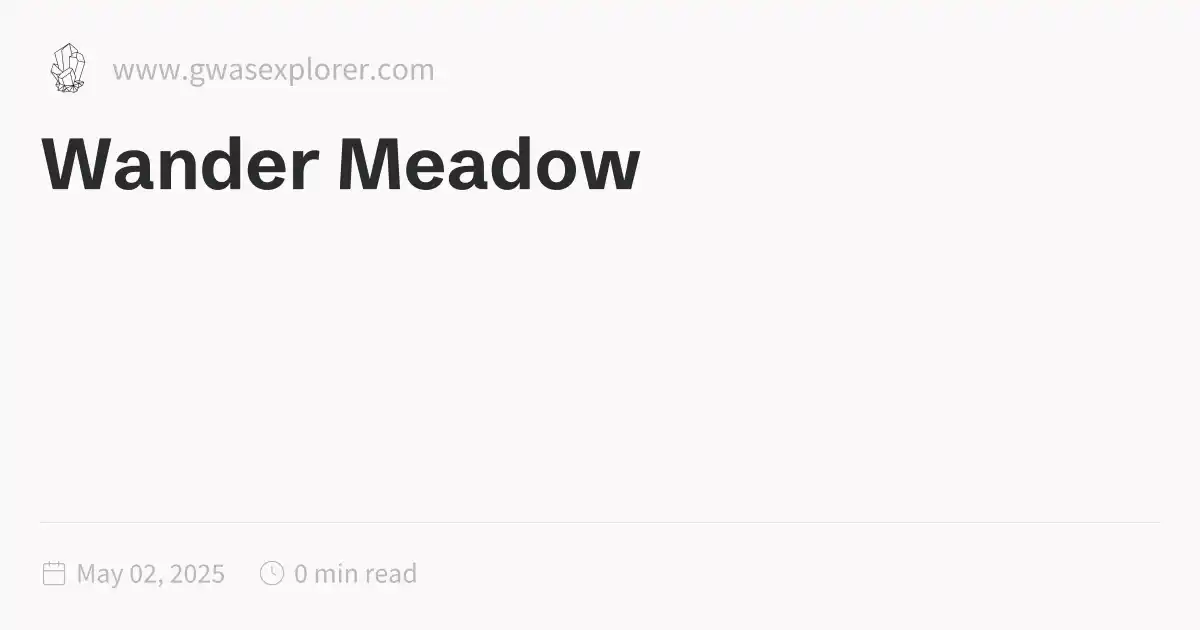
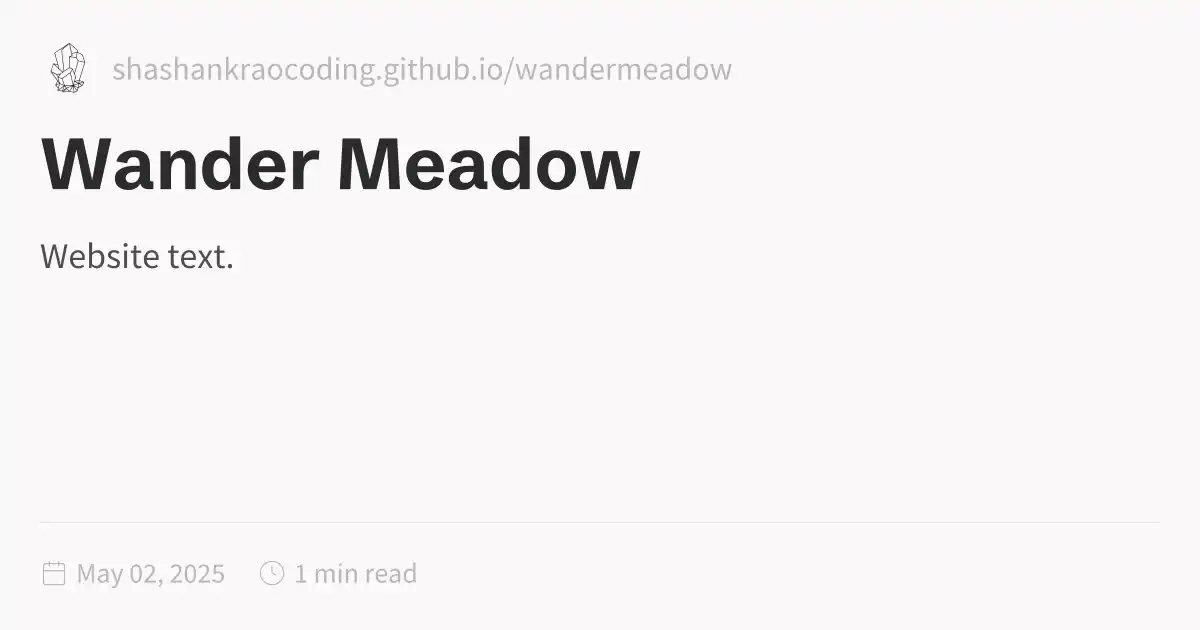
Update public folder - 2025-05-02\_1422

Changed region(s): [[0.0925, 0.0905, 0.6167, 0.1508], [0.0308, 0.3921, 0.185, 0.4222], [0.2467, 0.9048, 0.2775, 0.9349]]

diff --git a/tags/index.html b/tags/index.html
@@ -1,5 +1,5 @@
 <!DOCTYPE html>
-<html lang="en"><head><title>Tag Index</title><meta charset="utf-8"/><link rel="preconnect" href="https://fonts.googleapis.com"/><link rel="preconnect" href="https://fonts.gstatic.com"/><link rel="stylesheet" href="https://fonts.googleapis.com/css2?family=Schibsted Grotesk:wght@400;700&amp;family=Source Sans Pro:ital,wght@0,400;0,600;1,400;1,600&amp;family=IBM Plex Mono:wght@400;600&amp;display=swap"/><link rel="preconnect" href="https://cdnjs.cloudflare.com" crossorigin="anonymous"/><meta name="viewport" content="width=device-width, initial-scale=1.0"/><meta name="og:site_name" content="GWAS Explorer"/><meta property="og:title" content="Tag Index"/><meta property="og:type" content="website"/><meta name="twitter:card" content="summary_large_image"/><meta name="twitter:title" content="Tag Index"/><meta name="twitter:description" content="No description provided"/><meta property="og:description" content="No description provided"/><meta property="og:image:alt" content="No description provided"/><meta property="twitter:domain" content="www.gwasexplorer.com"/><meta property="og:url" content="https://www.gwasexplorer.com/tags/index"/><meta property="twitter:url" content="https://www.gwasexplorer.com/tags/index"/><link rel="icon" href="../static/icon.png"/><meta name="description" content="No description provided"/><meta name="generator" content="Quartz"/><link href="../index.css" rel="stylesheet" type="text/css" spa-preserve/><style>.expand-button {
+<html lang="en"><head><title>Tag Index</title><meta charset="utf-8"/><link rel="preconnect" href="https://fonts.googleapis.com"/><link rel="preconnect" href="https://fonts.gstatic.com"/><link rel="stylesheet" href="https://fonts.googleapis.com/css2?family=Schibsted Grotesk:wght@400;700&amp;family=Source Sans Pro:ital,wght@0,400;0,600;1,400;1,600&amp;family=IBM Plex Mono:wght@400;600&amp;display=swap"/><link rel="preconnect" href="https://cdnjs.cloudflare.com" crossorigin="anonymous"/><meta name="viewport" content="width=device-width, initial-scale=1.0"/><meta name="og:site_name" content="Wander Meadow"/><meta property="og:title" content="Tag Index"/><meta property="og:type" content="website"/><meta name="twitter:card" content="summary_large_image"/><meta name="twitter:title" content="Tag Index"/><meta name="twitter:description" content="No description provided"/><meta property="og:description" content="No description provided"/><meta property="og:image:alt" content="No description provided"/><meta property="twitter:domain" content="shashankraocoding.github.io/wandermeadow"/><meta property="og:url" content="https://shashankraocoding.github.io/wandermeadow/tags/index"/><meta property="twitter:url" content="https://shashankraocoding.github.io/wandermeadow/tags/index"/><link rel="icon" href="../static/icon.png"/><meta name="description" content="No description provided"/><meta name="generator" content="Quartz"/><link href="../index.css" rel="stylesheet" type="text/css" spa-preserve/><style>.expand-button {
   position: absolute;
   display: flex;
   float: right;
@@ -116,6 +116,6 @@ pre:hover > .expand-button {
   padding: 0 12px;
   font-size: 14px;
 }
[2 lines of base64/hex data omitted]
 </script><script type="module">function f(i,e){if(!i)return;function r(o){o.target===this&&(o.preventDefault(),o.stopPropagation(),e())}function t(o){o.key.startsWith("Esc")&&(o.preventDefault(),e())}i?.addEventListener("click",r),window.addCleanup(()=>i?.removeEventListener("click",r)),document.addEventListener("keydown",t),window.addCleanup(()=>document.removeEventListener("keydown",t))}function y(i){for(;i.firstChild;)i.removeChild(i.firstChild)}var h=class{constructor(e,r){this.container=e;this.content=r;this.setupEventListeners(),this.setupNavigationControls(),this.resetTransform()}isDragging=!1;startPan={x:0,y:0};currentPan={x:0,y:0};scale=1;MIN_SCALE=.5;MAX_SCALE=3;cleanups=[];setupEventListeners(){let e=this.onMouseDown.bind(this),r=this.onMouseMove.bind(this),t=this.onMouseUp.bind(this),o=this.resetTransform.bind(this);this.container.addEventListener("mousedown",e),document.addEventListener("mousemove",r),document.addEventListener("mouseup",t),window.addEventListener("resize",o),this.cleanups.push(()=>this.container.removeEventListener("mousedown",e),()=>document.removeEventListener("mousemove",r),()=>document.removeEventListener("mouseup",t),()=>window.removeEventListener("resize",o))}cleanup(){for(let e of this.cleanups)e()}setupNavigationControls(){let e=document.createElement("div");e.className="mermaid-controls";let r=this.createButton("+",()=>this.zoom(.1)),t=this.createButton("-",()=>this.zoom(-.1)),o=this.createButton("Reset",()=>this.resetTransform());e.appendChild(t),e.appendChild(o),e.appendChild(r),this.container.appendChild(e)}createButton(e,r){let t=document.createElement("button");return t.textContent=e,t.className="mermaid-control-button",t.addEventListener("click",r),window.addCleanup(()=>t.removeEventListener("click",r)),t}onMouseDown(e){e.button===0&&(this.isDragging=!0,this.startPan={x:e.clientX-this.currentPan.x,y:e.clientY-this.currentPan.y},this.container.style.cursor="grabbing")}onMouseMove(e){this.isDragging&&(e.preventDefault(),this.currentPan={x:e.clientX-this.startPan.x,y:e.clientY-this.startPan.y},this.updateTransform())}onMouseUp(){this.isDragging=!1,this.container.style.cursor="grab"}zoom(e){let r=Math.min(Math.max(this.scale+e,this.MIN_SCALE),this.MAX_SCALE),t=this.content.getBoundingClientRect(),o=t.width/2,n=t.height/2,c=r-this.scale;this.currentPan.x-=o*c,this.currentPan.y-=n*c,this.scale=r,this.updateTransform()}updateTransform(){this.content.style.transform=`translate(${this.currentPan.x}px, ${this.currentPan.y}px) scale(${this.scale})`}resetTransform(){this.scale=1;let e=this.content.querySelector("svg");this.currentPan={x:e.getBoundingClientRect().width/2,y:e.getBoundingClientRect().height/2},this.updateTransform()}},C=["--secondary","--tertiary","--gray","--light","--lightgray","--highlight","--dark","--darkgray","--codeFont"],E;document.addEventListener("nav",async()=>{let e=document.querySelector(".center").querySelectorAll("code.mermaid");if(e.length===0)return;E||=await import("https://cdnjs.cloudflare.com/ajax/libs/mermaid/11.4.0/mermaid.esm.min.mjs");let r=E.default,t=new WeakMap;for(let n of e)t.set(n,n.innerText);async function o(){for(let s of e){s.removeAttribute("data-processed");let a=t.get(s);a&&(s.innerHTML=a)}let n=C.reduce((s,a)=>(s[a]=window.getComputedStyle(document.documentElement).getPropertyValue(a),s),{}),c=document.documentElement.getAttribute("saved-theme")==="dark";r.initialize({startOnLoad:!1,securityLevel:"loose",theme:c?"dark":"base",themeVariables:{fontFamily:n["--codeFont"],primaryColor:n["--light"],primaryTextColor:n["--darkgray"],primaryBorderColor:n["--tertiary"],lineColor:n["--darkgray"],secondaryColor:n["--secondary"],tertiaryColor:n["--tertiary"],clusterBkg:n["--light"],edgeLabelBackground:n["--highlight"]}}),await r.run({nodes:e})}await o(),document.addEventListener("themechange",o),window.addCleanup(()=>document.removeEventListener("themechange",o));for(let n=0;n<e.length;n++){let v=function(){let g=l.querySelector("#mermaid-space"),m=l.querySelector(".mermaid-content");if(!m)return;y(m);let w=c.querySelector("svg").cloneNode(!0);m.appendChild(w),l.classList.add("active"),g.style.cursor="grab",u=new h(g,m)},M=function(){l.classList.remove("active"),u?.cleanup(),u=null},c=e[n],s=c.parentElement,a=s.querySelector(".clipboard-button"),d=s.querySelector(".expand-button"),p=window.getComputedStyle(a),L=a.offsetWidth+parseFloat(p.marginLeft||"0")+parseFloat(p.marginRight||"0");d.style.right=`calc(${L}px + 0.3rem)`,s.prepend(d);let l=s.querySelector("#mermaid-container");if(!l)return;let u=null;d.addEventListener("click",v),f(l,M),window.addCleanup(()=>{u?.cleanup(),d.removeEventListener("click",v)})}});
 </script><script src="https://cdn.jsdelivr.net/npm/katex@0.16.11/dist/contrib/copy-tex.min.js" type="application/javascript"></script><script src="../postscript.js" type="module"></script></html>

diff --git a/index.html b/index.html
@@ -1,5 +1,5 @@
 <!DOCTYPE html>
-<html lang="en"><head><title>GWASExplorer</title><meta charset="utf-8"/><link rel="preconnect" href="https://fonts.googleapis.com"/><link rel="preconnect" href="https://fonts.gstatic.com"/><link rel="stylesheet" href="https://fonts.googleapis.com/css2?family=Schibsted Grotesk:wght@400;700&amp;family=Source Sans Pro:ital,wght@0,400;0,600;1,400;1,600&amp;family=IBM Plex Mono:wght@400;600&amp;display=swap"/><link rel="preconnect" href="https://cdnjs.cloudflare.com" crossorigin="anonymous"/><meta name="viewport" content="width=device-width, initial-scale=1.0"/><meta name="og:site_name" content="GWAS Explorer"/><meta property="og:title" content="GWASExplorer"/><meta property="og:type" content="website"/><meta name="twitter:card" content="summary_large_image"/><meta name="twitter:title" content="GWASExplorer"/><meta name="twitter:description" content="Catalogue of Free Tools for Bioinformatic Analysis of GWAS Summary Statistics."/><meta property="og:description" content="Catalogue of Free Tools for Bioinformatic Analysis of GWAS Summary Statistics."/><meta property="og:image:alt" content="Catalogue of Free Tools for Bioinformatic Analysis of GWAS Summary Statistics."/><meta property="twitter:domain" content="www.gwasexplorer.com"/><meta property="og:url" content="https://www.gwasexplorer.com/GWASExplorer"/><meta property="twitter:url" content="https://www.gwasexplorer.com/GWASExplorer"/><link rel="icon" href="./static/icon.png"/><meta name="description" content="Catalogue of Free Tools for Bioinformatic Analysis of GWAS Summary Statistics."/><meta name="generator" content="Quartz"/><link href="./index.css" rel="stylesheet" type="text/css" spa-preserve/><style>.expand-button {
+<html lang="en"><head><title>Wander Meadow</title><meta charset="utf-8"/><link rel="preconnect" href="https://fonts.googleapis.com"/><link rel="preconnect" href="https://fonts.gstatic.com"/><link rel="stylesheet" href="https://fonts.googleapis.com/css2?family=Schibsted Grotesk:wght@400;700&amp;family=Source Sans Pro:ital,wght@0,400;0,600;1,400;1,600&amp;family=IBM Plex Mono:wght@400;600&amp;display=swap"/><link rel="preconnect" href="https://cdnjs.cloudflare.com" crossorigin="anonymous"/><meta name="viewport" content="width=device-width, initial-scale=1.0"/><meta name="og:site_name" content="Wander Meadow"/><meta property="og:title" content="Wander Meadow"/><meta property="og:type" content="website"/><meta name="twitter:card" content="summary_large_image"/><meta name="twitter:title" content="Wander Meadow"/><meta name="twitter:description" content="Website text."/><meta property="og:description" content="Website text."/><meta property="og:image:alt" content="Website text."/><meta property="twitter:domain" content="shashankraocoding.github.io/wandermeadow"/><meta property="og:url" content="https://shashankraocoding.github.io/wandermeadow/Wander-Meadow"/><meta property="twitter:url" content="https://shashankraocoding.github.io/wandermeadow/Wander-Meadow"/><link rel="icon" href="./static/icon.png"/><meta name="description" content="Website text."/><meta name="generator" content="Quartz"/><link href="./index.css" rel="stylesheet" type="text/css" spa-preserve/><style>.expand-button {
   position: absolute;
   display: flex;
   float: right;
@@ -116,7 +116,7 @@ pre:hover > .expand-button {
   padding: 0 12px;
   font-size: 14px;
 }
[2 lines of base64/hex data omitted]
                 s-3.542,0.634-4.898,1.688l-7.669-7.669C16.785,10.424,17,9.74,17,9c0-2.206-1.794-4-4-4S9,6.794,9,9s1.794,4,4,4
                 c0.74,0,1.424-0.215,2.019-0.567l7.669,7.669C21.634,21.458,21,23.154,21,25s0.634,3.542,1.688,4.897L10.024,42.562
                 C8.958,41.595,7.549,41,6,41c-3.309,0-6,2.691-6,6s2.691,6,6,6s6-2.691,6-6c0-1.035-0.263-2.009-0.726-2.86l12.829-12.829

diff --git a/Wander-Meadow.html b/Wander-Meadow.html
@@ -1,5 +1,5 @@
 <!DOCTYPE html>
-<html lang="en"><head><title>Wander Meadow</title><meta charset="utf-8"/><link rel="preconnect" href="https://fonts.googleapis.com"/><link rel="preconnect" href="https://fonts.gstatic.com"/><link rel="stylesheet" href="https://fonts.googleapis.com/css2?family=Schibsted Grotesk:wght@400;700&amp;family=Source Sans Pro:ital,wght@0,400;0,600;1,400;1,600&amp;family=IBM Plex Mono:wght@400;600&amp;display=swap"/><link rel="preconnect" href="https://cdnjs.cloudflare.com" crossorigin="anonymous"/><meta name="viewport" content="width=device-width, initial-scale=1.0"/><meta name="og:site_name" content="GWAS Explorer"/><meta property="og:title" content="Wander Meadow"/><meta property="og:type" content="website"/><meta name="twitter:card" content="summary_large_image"/><meta name="twitter:title" content="Wander Meadow"/><meta name="twitter:description" content/><meta property="og:description" content/><meta property="og:image:alt" content/><meta property="twitter:domain" content="www.gwasexplorer.com"/><meta property="og:url" content="https://www.gwasexplorer.com/Wander-Meadow"/><meta property="twitter:url" content="https://www.gwasexplorer.com/Wander-Meadow"/><link rel="icon" href="./static/icon.png"/><meta name="description" content/><meta name="generator" content="Quartz"/><link href="./index.css" rel="stylesheet" type="text/css" spa-preserve/><style>.expand-button {
+<html lang="en"><head><title>Wander Meadow</title><meta charset="utf-8"/><link rel="preconnect" href="https://fonts.googleapis.com"/><link rel="preconnect" href="https://fonts.gstatic.com"/><link rel="stylesheet" href="https://fonts.googleapis.com/css2?family=Schibsted Grotesk:wght@400;700&amp;family=Source Sans Pro:ital,wght@0,400;0,600;1,400;1,600&amp;family=IBM Plex Mono:wght@400;600&amp;display=swap"/><link rel="preconnect" href="https://cdnjs.cloudflare.com" crossorigin="anonymous"/><meta name="viewport" content="width=device-width, initial-scale=1.0"/><meta name="og:site_name" content="Wander Meadow"/><meta property="og:title" content="Wander Meadow"/><meta property="og:type" content="website"/><meta name="twitter:card" content="summary_large_image"/><meta name="twitter:title" content="Wander Meadow"/><meta name="twitter:description" content="Website text."/><meta property="og:description" content="Website text."/><meta property="og:image:alt" content="Website text."/><meta property="twitter:domain" content="shashankraocoding.github.io/wandermeadow"/><meta property="og:url" content="https://shashankraocoding.github.io/wandermeadow/Wander-Meadow"/><meta property="twitter:url" content="https://shashankraocoding.github.io/wandermeadow/Wander-Meadow"/><link rel="icon" href="./static/icon.png"/><meta name="description" content="Website text."/><meta name="generator" content="Quartz"/><link href="./index.css" rel="stylesheet" type="text/css" spa-preserve/><style>.expand-button {
   position: absolute;
   display: flex;
   float: right;
@@ -116,7 +116,7 @@ pre:hover > .expand-button {
   padding: 0 12px;
   font-size: 14px;
 }
[2 lines of base64/hex data omitted]
                 s-3.542,0.634-4.898,1.688l-7.669-7.669C16.785,10.424,17,9.74,17,9c0-2.206-1.794-4-4-4S9,6.794,9,9s1.794,4,4,4
                 c0.74,0,1.424-0.215,2.019-0.567l7.669,7.669C21.634,21.458,21,23.154,21,25s0.634,3.542,1.688,4.897L10.024,42.562
                 C8.958,41.595,7.549,41,6,41c-3.309,0-6,2.691-6,6s2.691,6,6,6s6-2.691,6-6c0-1.035-0.263-2.009-0.726-2.86l12.829-12.829

diff --git a/404.html b/404.html
@@ -1,5 +1,5 @@
 <!DOCTYPE html>
-<html lang="en"><head><title>Not Found</title><meta charset="utf-8"/><link rel="preconnect" href="https://fonts.googleapis.com"/><link rel="preconnect" href="https://fonts.gstatic.com"/><link rel="stylesheet" href="https://fonts.googleapis.com/css2?family=Schibsted Grotesk:wght@400;700&amp;family=Source Sans Pro:ital,wght@0,400;0,600;1,400;1,600&amp;family=IBM Plex Mono:wght@400;600&amp;display=swap"/><link rel="preconnect" href="https://cdnjs.cloudflare.com" crossorigin="anonymous"/><meta name="viewport" content="width=device-width, initial-scale=1.0"/><meta name="og:site_name" content="GWAS Explorer"/><meta property="og:title" content="Not Found"/><meta property="og:type" content="website"/><meta name="twitter:card" content="summary_large_image"/><meta name="twitter:title" content="Not Found"/><meta name="twitter:description" content="Not Found"/><meta property="og:description" content="Not Found"/><meta property="og:image:alt" content="Not Found"/><meta property="twitter:domain" content="www.gwasexplorer.com"/><meta property="og:url" content="https://www.gwasexplorer.com/"/><meta property="twitter:url" content="https://www.gwasexplorer.com/"/><link rel="icon" href="/static/icon.png"/><meta name="description" content="Not Found"/><meta name="generator" content="Quartz"/><link href="/index.css" rel="stylesheet" type="text/css" spa-preserve/><style>.expand-button {
+<html lang="en"><head><title>Not Found</title><meta charset="utf-8"/><link rel="preconnect" href="https://fonts.googleapis.com"/><link rel="preconnect" href="https://fonts.gstatic.com"/><link rel="stylesheet" href="https://fonts.googleapis.com/css2?family=Schibsted Grotesk:wght@400;700&amp;family=Source Sans Pro:ital,wght@0,400;0,600;1,400;1,600&amp;family=IBM Plex Mono:wght@400;600&amp;display=swap"/><link rel="preconnect" href="https://cdnjs.cloudflare.com" crossorigin="anonymous"/><meta name="viewport" content="width=device-width, initial-scale=1.0"/><meta name="og:site_name" content="Wander Meadow"/><meta property="og:title" content="Not Found"/><meta property="og:type" content="website"/><meta name="twitter:card" content="summary_large_image"/><meta name="twitter:title" content="Not Found"/><meta name="twitter:description" content="Not Found"/><meta property="og:description" content="Not Found"/><meta property="og:image:alt" content="Not Found"/><meta property="twitter:domain" content="shashankraocoding.github.io/wandermeadow"/><meta property="og:url" content="https://shashankraocoding.github.io/wandermeadow"/><meta property="twitter:url" content="https://shashankraocoding.github.io/wandermeadow"/><link rel="icon" href="/wandermeadow/static/icon.png"/><meta name="description" content="Not Found"/><meta name="generator" content="Quartz"/><link href="/wandermeadow/index.css" rel="stylesheet" type="text/css" spa-preserve/><style>.expand-button {
   position: absolute;
   display: flex;
   float: right;
@@ -116,6 +116,6 @@ pre:hover > .expand-button {
   padding: 0 12px;
   font-size: 14px;
 }
[2 lines of base64/hex data omitted]
 </script><script type="module">function f(i,e){if(!i)return;function r(o){o.target===this&&(o.preventDefault(),o.stopPropagation(),e())}function t(o){o.key.startsWith("Esc")&&(o.preventDefault(),e())}i?.addEventListener("click",r),window.addCleanup(()=>i?.removeEventListener("click",r)),document.addEventListener("keydown",t),window.addCleanup(()=>document.removeEventListener("keydown",t))}function y(i){for(;i.firstChild;)i.removeChild(i.firstChild)}var h=class{constructor(e,r){this.container=e;this.content=r;this.setupEventListeners(),this.setupNavigationControls(),this.resetTransform()}isDragging=!1;startPan={x:0,y:0};currentPan={x:0,y:0};scale=1;MIN_SCALE=.5;MAX_SCALE=3;cleanups=[];setupEventListeners(){let e=this.onMouseDown.bind(this),r=this.onMouseMove.bind(this),t=this.onMouseUp.bind(this),o=this.resetTransform.bind(this);this.container.addEventListener("mousedown",e),document.addEventListener("mousemove",r),document.addEventListener("mouseup",t),window.addEventListener("resize",o),this.cleanups.push(()=>this.container.removeEventListener("mousedown",e),()=>document.removeEventListener("mousemove",r),()=>document.removeEventListener("mouseup",t),()=>window.removeEventListener("resize",o))}cleanup(){for(let e of this.cleanups)e()}setupNavigationControls(){let e=document.createElement("div");e.className="mermaid-controls";let r=this.createButton("+",()=>this.zoom(.1)),t=this.createButton("-",()=>this.zoom(-.1)),o=this.createButton("Reset",()=>this.resetTransform());e.appendChild(t),e.appendChild(o),e.appendChild(r),this.container.appendChild(e)}createButton(e,r){let t=document.createElement("button");return t.textContent=e,t.className="mermaid-control-button",t.addEventListener("click",r),window.addCleanup(()=>t.removeEventListener("click",r)),t}onMouseDown(e){e.button===0&&(this.isDragging=!0,this.startPan={x:e.clientX-this.currentPan.x,y:e.clientY-this.currentPan.y},this.container.style.cursor="grabbing")}onMouseMove(e){this.isDragging&&(e.preventDefault(),this.currentPan={x:e.clientX-this.startPan.x,y:e.clientY-this.startPan.y},this.updateTransform())}onMouseUp(){this.isDragging=!1,this.container.style.cursor="grab"}zoom(e){let r=Math.min(Math.max(this.scale+e,this.MIN_SCALE),this.MAX_SCALE),t=this.content.getBoundingClientRect(),o=t.width/2,n=t.height/2,c=r-this.scale;this.currentPan.x-=o*c,this.currentPan.y-=n*c,this.scale=r,this.updateTransform()}updateTransform(){this.content.style.transform=`translate(${this.currentPan.x}px, ${this.currentPan.y}px) scale(${this.scale})`}resetTransform(){this.scale=1;let e=this.content.querySelector("svg");this.currentPan={x:e.getBoundingClientRect().width/2,y:e.getBoundingClientRect().height/2},this.updateTransform()}},C=["--secondary","--tertiary","--gray","--light","--lightgray","--highlight","--dark","--darkgray","--codeFont"],E;document.addEventListener("nav",async()=>{let e=document.querySelector(".center").querySelectorAll("code.mermaid");if(e.length===0)return;E||=await import("https://cdnjs.cloudflare.com/ajax/libs/mermaid/11.4.0/mermaid.esm.min.mjs");let r=E.default,t=new WeakMap;for(let n of e)t.set(n,n.innerText);async function o(){for(let s of e){s.removeAttribute("data-processed");let a=t.get(s);a&&(s.innerHTML=a)}let n=C.reduce((s,a)=>(s[a]=window.getComputedStyle(document.documentElement).getPropertyValue(a),s),{}),c=document.documentElement.getAttribute("saved-theme")==="dark";r.initialize({startOnLoad:!1,securityLevel:"loose",theme:c?"dark":"base",themeVariables:{fontFamily:n["--codeFont"],primaryColor:n["--light"],primaryTextColor:n["--darkgray"],primaryBorderColor:n["--tertiary"],lineColor:n["--darkgray"],secondaryColor:n["--secondary"],tertiaryColor:n["--tertiary"],clusterBkg:n["--light"],edgeLabelBackground:n["--highlight"]}}),await r.run({nodes:e})}await o(),document.addEventListener("themechange",o),window.addCleanup(()=>document.removeEventListener("themechange",o));for(let n=0;n<e.length;n++){let v=function(){let g=l.querySelector("#mermaid-space"),m=l.querySelector(".mermaid-content");if(!m)return;y(m);let w=c.querySelector("svg").cloneNode(!0);m.appendChild(w),l.classList.add("active"),g.style.cursor="grab",u=new h(g,m)},M=function(){l.classList.remove("active"),u?.cleanup(),u=null},c=e[n],s=c.parentElement,a=s.querySelector(".clipboard-button"),d=s.querySelector(".expand-button"),p=window.getComputedStyle(a),L=a.offsetWidth+parseFloat(p.marginLeft||"0")+parseFloat(p.marginRight||"0");d.style.right=`calc(${L}px + 0.3rem)`,s.prepend(d);let l=s.querySelector("#mermaid-container");if(!l)return;let u=null;d.addEventListener("click",v),f(l,M),window.addCleanup(()=>{u?.cleanup(),d.removeEventListener("click",v)})}});
-</script><script src="https://cdn.jsdelivr.net/npm/katex@0.16.11/dist/contrib/copy-tex.min.js" type="application/javascript"></script><script src="/postscript.js" type="module"></script></html>
+</script><script src="https://cdn.jsdelivr.net/npm/katex@0.16.11/dist/contrib/copy-tex.min.js" type="application/javascript"></script><script src="/wandermeadow/postscript.js" type="module"></script></html>
